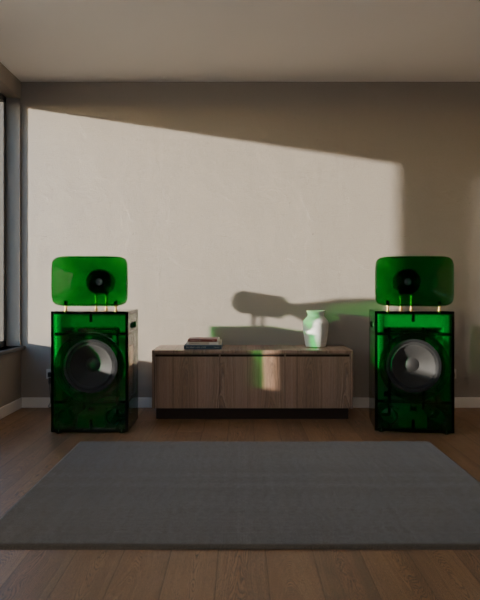
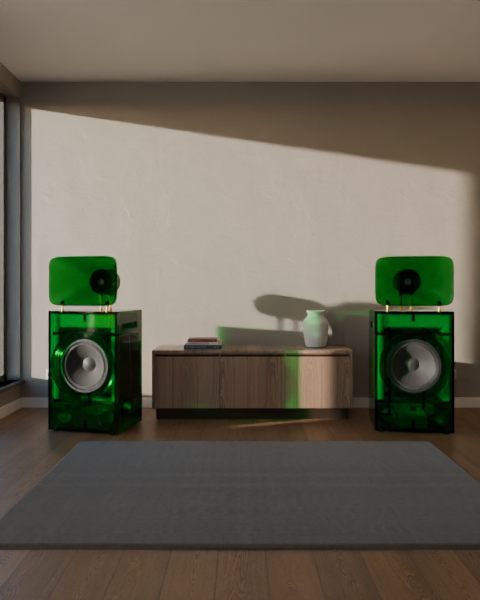
Tropos room (the portrait's 21:28 hold): sills 0.25 and 0.6, the sun 3 deg round, the left unit at -14 deg; both frames proved at 0.3 scale
Cabinet pixels under 20 (left / right) and green in the lower 40 %:
- portrait: 62 % / 64 % to 39 % / 45 %; green 17 / 13 to 32 / 26
- deck-home: 67 % / 65 % to 35 % / 49 %; green 16 / 13 to 30 / 23
The left unit's face toward the sideboard went from (70,63,54), beige, to (15,18,8), dark green.

Claude-Session: https://claude.ai/code/session_01CsZ9sPVytkpnrfV4BgTgfB

diff --git a/spinoffs/barkhorn/campaign/shots.py b/spinoffs/barkhorn/campaign/shots.py
@@ -542,6 +542,19 @@ def _room_gate3(s):
             top = w['sill'] + w['size'][1]
             w['sill'] = 0.55
             w['size'] = [w['size'][0], round(top - 0.55, 3)]
+    # (the fix1 portrait's gate, 2026-11-03 21:28, HOLD 3/3: the lower ~40 % of both cabinets near-black (65 % of cabinet
+    # pixels under 20), the left unit's face toward the sideboard a beige mirror of the sunlit wall, the left horn's green
+    # on the wall running up to the right horn. Both sills come down, so the low sun reaches each cabinet from about a
+    # quarter of its height up, the bottom chambers still in shade: the window nearest the back wall to 0.35 (the left
+    # unit lit from about 0.22 m), the next to 0.75 (the right from about 0.26 m); the sun 3 deg round, so the green
+    # cast moves off the right horn; the left unit turned to -6 deg, its face toward the sideboard mirroring the room)
+    for w in s['set'].get('windows', []):
+        for along, sill in ((2.75, 0.25), (1.15, 0.6)):
+            if abs(w.get('along', 0) - along) < 1e-6:
+                top = w['sill'] + w['size'][1]
+                w['sill'] = sill
+                w['size'] = [w['size'][0], round(top - sill, 3)]
+    s['sun']['azimuth_deg'] = s['sun'].get('azimuth_deg', -68.0) - 3.0
     s['sun']['elevation_deg'] = 8.0
     s['render']['view'] = 'AgX'
     # (its proxy: AgX sits about half a stop under PBR Neutral, so -2/3 left the cabinets near black: -2/3 + 1/2)
@@ -550,7 +563,7 @@ def _room_gate3(s):
         for i in blk['instances']:
             x = i['position'][0]
             if x < 0:
-                i['rotate_z'] = 1.0
+                i["rotate_z"] = -14.0
             else:
                 i['rotate_z'] = -8.0
     return s
